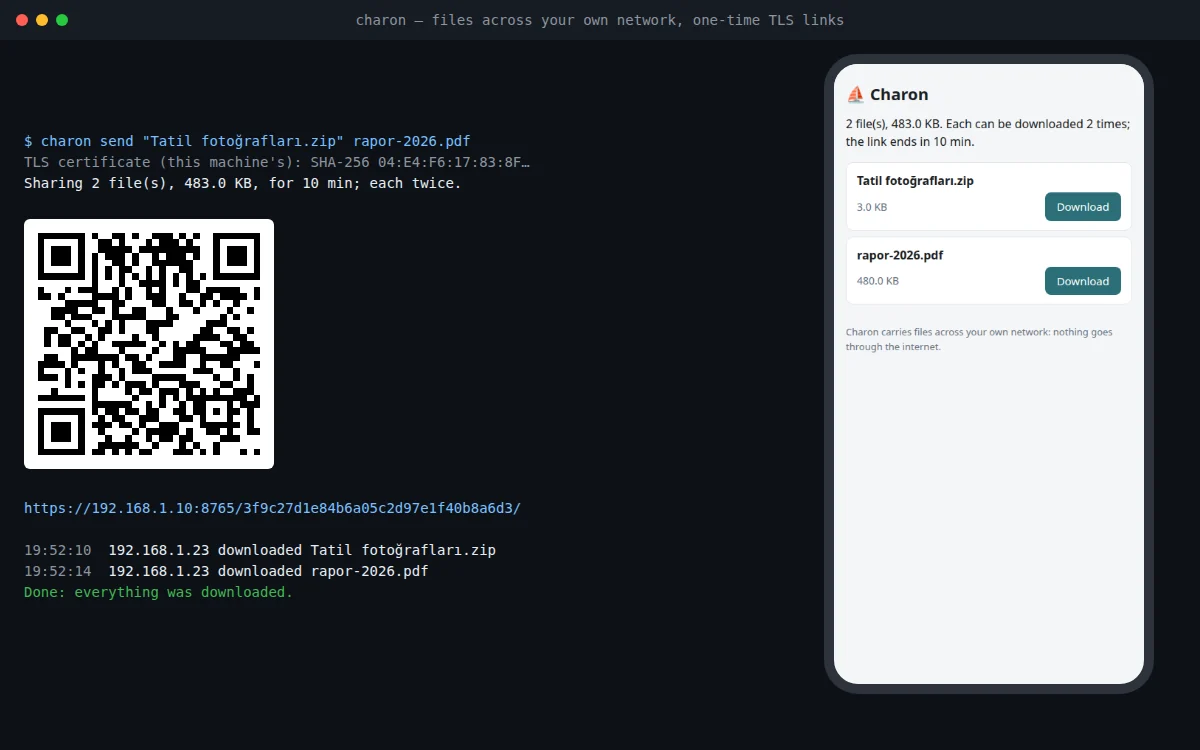
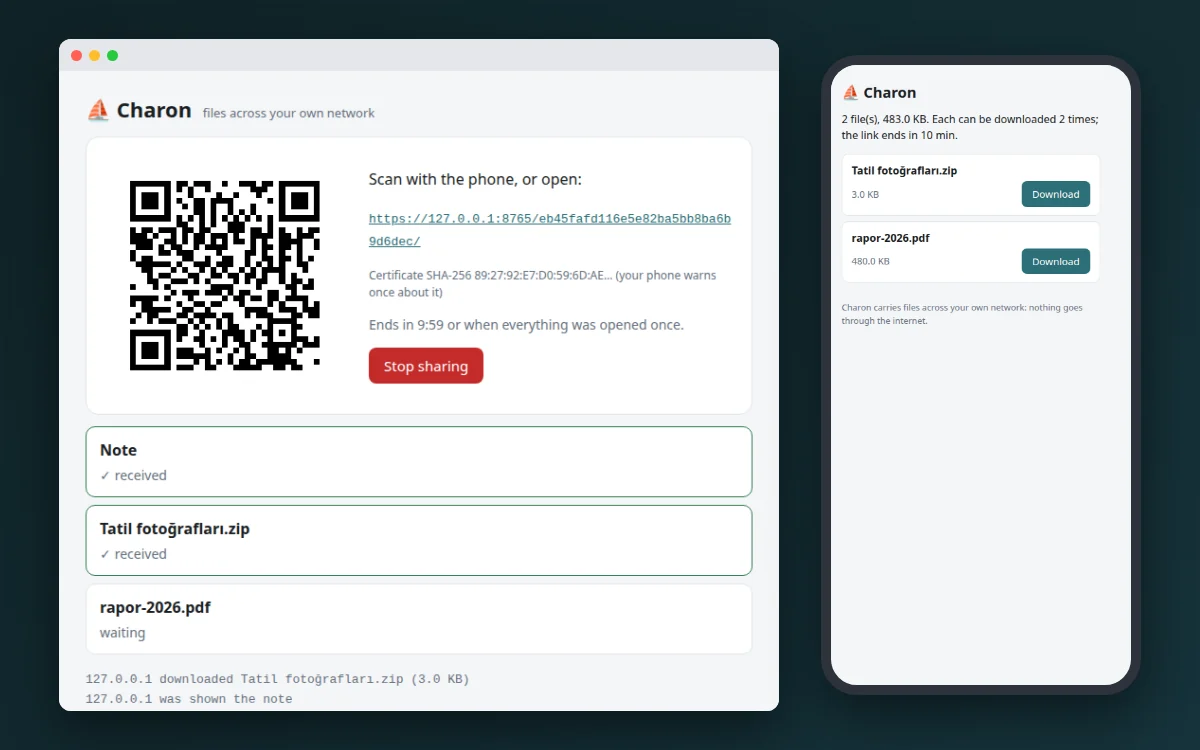
Charon card: the window and the phone, not a terminal

diff --git a/index.html b/index.html
@@ -281,7 +281,7 @@
           </li>
           <li class="card">
             <a class="card__link" href="https://github.com/fas0ftware/charon" target="_blank" rel="noopener noreferrer">
-              <span class="card__thumb"><img src="assets/projects/charon.webp" alt="Charon sharing two files: a QR code and a one-time link in the terminal, and the download page on a phone" width="1200" height="750" loading="lazy" decoding="async"></span>
+              <span class="card__thumb"><img src="assets/projects/charon.webp" alt="Charon window with the QR code, the link and what was received (a note and a photo), next to the download page on a phone" width="1200" height="750" loading="lazy" decoding="async"></span>
               <span class="card__meta"><span class="tag">0.3</span> File sharing</span>
               <span class="card__title">Charon</span>
               <span class="card__text">Files between your laptop and phone over your own network, from a window or the terminal: a QR code, a secret one-time link that expires, TLS, and an upload page the other way round, and notes shown once. No cloud, no account.</span>
